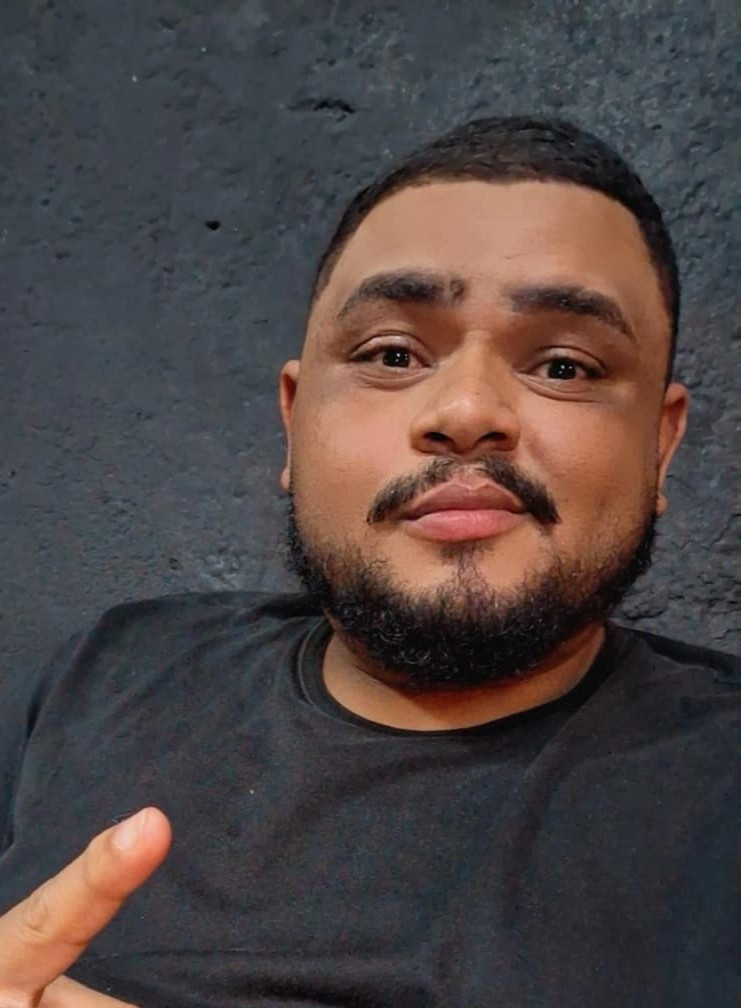
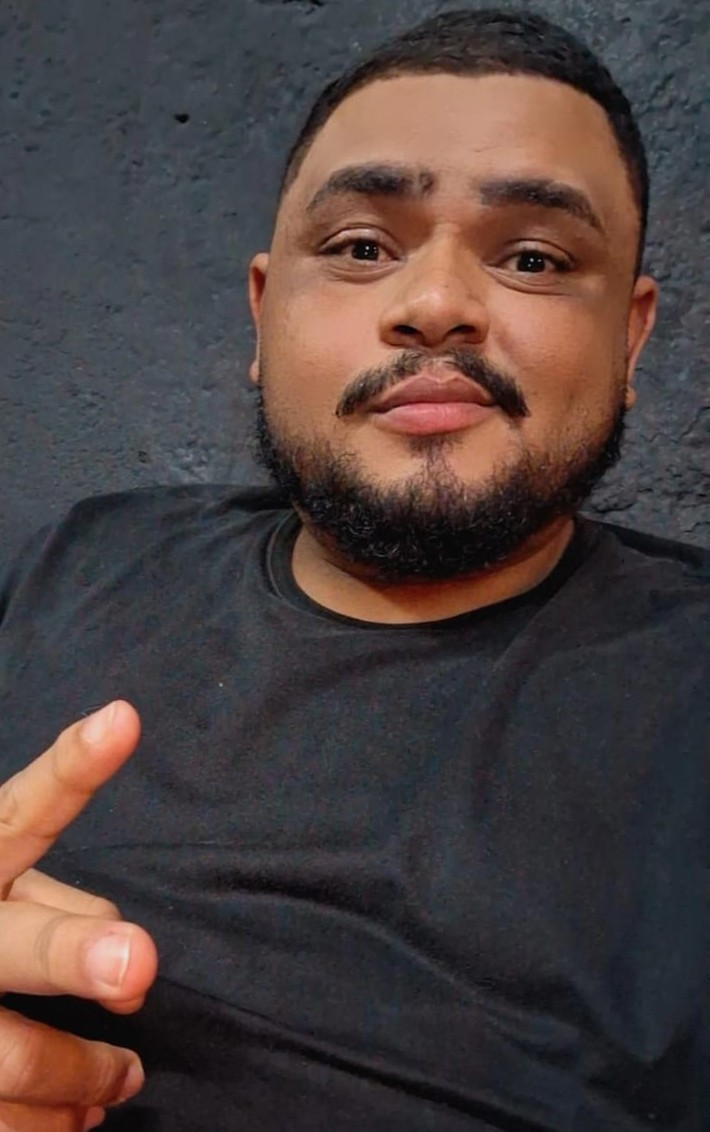
Corrigindo textos dos projetos

diff --git a/src/App.css b/src/App.css
@@ -1,113 +1,236 @@
-/* ===== Geral ===== */
+@import url('https://fonts.googleapis.com/css2?family=Bricolage+Grotesque:wght@600;700&family=Source+Sans+3:wght@400;600&display=swap');
+
+/* ===== Cores (troque aqui para mudar o site todo) ===== */
+:root {
+  --azul: #111111;
+  --azul-escuro: #000000;
+  --ambar: #f0a202;
+  --fundo: #f4f4f2;
+  --texto: #22262b;
+  --texto-suave: #5b6470;
+  --linha: #cfd2cc;
+}
+
 * {
   box-sizing: border-box;
 }
 
 body {
   margin: 0;
-  font-family: 'Segoe UI', Tahoma, sans-serif;
-  background-color: #eef1f7;
-  color: #2b2f3a;
-  line-height: 1.6;
+  font-family: 'Source Sans 3', Arial, sans-serif;
+  font-size: 18px;
+  line-height: 1.65;
+  background-color: var(--fundo);
+  color: var(--texto);
 }
 
+/* ===== Layout: barra lateral + conteúdo ===== */
 .site {
-  max-width: 850px;
-  margin: 0 auto;
-  padding: 30px 20px;
+  display: grid;
+  grid-template-columns: 360px 1fr;
+  min-height: 100vh;
 }
 
-/* ===== Cabeçalho (apresentação) ===== */
 .header {
+  grid-row: 1 / span 2;
+  position: sticky;
+  top: 0;
+  align-self: start;
+  height: 100vh;
   display: flex;
-  align-items: center;
-  gap: 35px;
-  background-color: #2b3280;
+  flex-direction: column;
+  justify-content: center;
+  gap: 28px;
+  padding: 40px 36px;
+  background-color: var(--azul);
   color: white;
-  padding: 40px;
-  border-radius: 16px;
-  box-shadow: 0 6px 18px rgba(43, 50, 128, 0.35);
+  border-top: 8px solid var(--ambar);
 }
 
 .foto {
-  width: 180px;
-  height: 180px;
-  border-radius: 50%;
+  width: 100%;
+  max-width: 260px;
+  aspect-ratio: 1 / 1;
   object-fit: cover;
-  border: 5px solid #2ec4b6;
+  object-position: center top;
+  border-radius: 4px;
 }
 
 .header h1 {
   margin: 0 0 12px 0;
-  font-size: 32px;
-  line-height: 1.2;
+  font-family: 'Bricolage Grotesque', Arial, sans-serif;
+  font-size: 34px;
+  line-height: 1.1;
+  letter-spacing: -0.02em;
 }
 
 .header p {
   margin: 0;
   font-size: 17px;
-  color: #dfe3ff;
+  color: #d0d0d0;
 }
 
-/* ===== Seções ===== */
+main {
+  grid-column: 2;
+  padding: 70px 70px 20px 70px;
+}
+
+/* ===== Seções (sem cards, só espaço e linhas) ===== */
 .secao {
-  margin-top: 30px;
-  padding: 30px;
-  background-color: white;
-  border-radius: 16px;
-  box-shadow: 0 3px 12px rgba(0, 0, 0, 0.08);
+  max-width: 720px;
+  margin-bottom: 70px;
 }
 
 .secao h2 {
-  margin: 0 0 20px 0;
-  font-size: 24px;
-  color: #2b3280;
+  margin: 0 0 22px 0;
+  font-family: 'Bricolage Grotesque', Arial, sans-serif;
+  font-size: 32px;
+  line-height: 1.2;
 }
 
-.secao h2::after {
-  content: '';
-  display: block;
-  width: 50px;
-  height: 4px;
-  margin-top: 6px;
-  background-color: #2ec4b6;
-  border-radius: 2px;
+.secao p {
+  margin: 0;
+  max-width: 65ch;
 }
 
-/* ===== Habilidades (viram etiquetas) ===== */
+/* ===== Habilidades (lista em duas colunas) ===== */
 ul {
   list-style: none;
   padding: 0;
   margin: 0;
-  display: flex;
-  flex-wrap: wrap;
-  gap: 12px;
+  display: grid;
+  grid-template-columns: 1fr 1fr;
+  column-gap: 40px;
 }
 
 .habilidade {
-  background-color: #e8ebfa;
-  color: #2b3280;
-  padding: 8px 16px;
-  border-radius: 20px;
-  font-size: 15px;
+  display: flex;
+  justify-content: space-between;
+  padding: 11px 0;
+  border-bottom: 1px solid var(--linha);
+}
+
+.habilidade span {
+  color: var(--texto-suave);
 }
 
 /* ===== Botões ===== */
 button {
-  background-color: #2b3280;
+  font-family: inherit;
+  font-size: 16px;
+  font-weight: 600;
+  background-color: var(--azul);
   color: white;
   border: none;
-  padding: 10px 18px;
-  margin-right: 8px;
-  border-radius: 8px;
+  padding: 9px 18px;
+  border-radius: 3px;
   cursor: pointer;
-  font-size: 15px;
-  font-family: inherit;
 }
 
 button:hover {
-  background-color: #1f2561;
+  background-color: var(--azul-escuro);
 }
 
 button:focus-visible {
-  outline: 3px solid #2ec4b6;
+  outline: 3px solid var(--ambar);
+  outline-offset: 2px;
+}
+
+/* ===== Abas do Sobre mim (só sublinhado) ===== */
+.abas {
+  display: flex;
+  gap: 28px;
+  margin-bottom: 20px;
+  border-bottom: 1px solid var(--linha);
+}
+
+.abas button {
+  background: none;
+  color: var(--texto-suave);
+  padding: 8px 0;
+  border-radius: 0;
+  border-bottom: 3px solid transparent;
+  margin-bottom: -1px;
+}
+
+.abas button:hover {
+  background: none;
+  color: var(--texto);
+}
+
+.abas button.ativa {
+  color: var(--texto);
+  border-bottom-color: var(--ambar);
+}
+
+/* ===== Projetos (lista com linhas) ===== */
+.projeto {
+  padding: 26px 0;
+  border-top: 1px solid var(--linha);
+}
+
+.projeto h3 {
+  margin: 0 0 6px 0;
+  font-family: 'Bricolage Grotesque', Arial, sans-serif;
+  font-size: 22px;
+}
+
+.projeto p {
+  margin: 0 0 16px 0;
+}
+
+.projeto .detalhes {
+  margin: 18px 0 0 0;
+  padding: 14px 18px;
+  background-color: #e8eae5;
+  border-left: 4px solid var(--ambar);
+  color: var(--texto);
+}
+
+/* ===== Rodapé ===== */
+.rodape {
+  grid-column: 2;
+  padding: 30px 70px 50px 70px;
+  font-size: 16px;
+  color: var(--texto-suave);
+}
+
+.rodape p {
+  margin: 4px 0;
+}
+
+a {
+  color: var(--azul);
+  text-decoration-color: var(--ambar);
+  text-decoration-thickness: 2px;
+  text-underline-offset: 3px;
+}
+
+/* ===== Celular e tela pequena ===== */
+@media (max-width: 850px) {
+  .site {
+    display: block;
+  }
+
+  .header {
+    position: static;
+    height: auto;
+    padding: 32px 24px;
+  }
+
+  .foto {
+    max-width: 180px;
+  }
+
+  main {
+    padding: 40px 24px 10px 24px;
+  }
+
+  .rodape {
+    padding: 20px 24px 40px 24px;
+  }
+
+  ul {
+    grid-template-columns: 1fr;
+  }
+}

diff --git a/src/components/Habilidade.jsx b/src/components/Habilidade.jsx
@@ -1,7 +1,9 @@
+// Um item da lista de habilidades (reutilizado várias vezes)
 function Habilidade({ nome, nivel }) {
   return (
     <li className="habilidade">
-      <strong>{nome}</strong> - {nivel}
+      <strong>{nome}</strong>
+      <span>{nivel}</span>
     </li>
   )
 }
